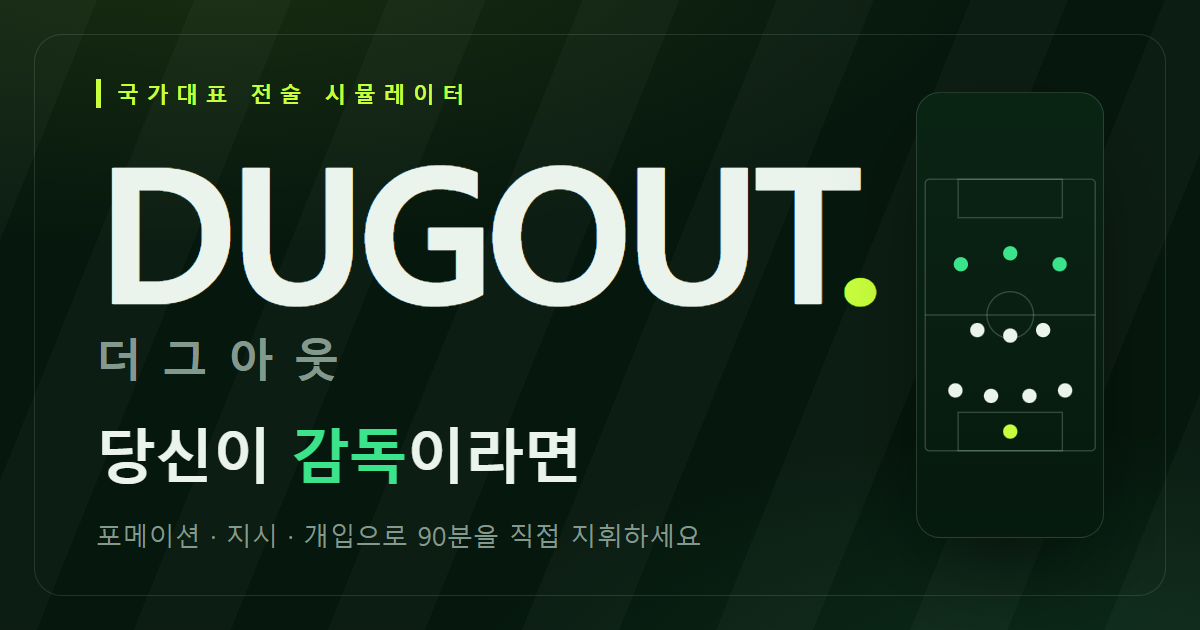
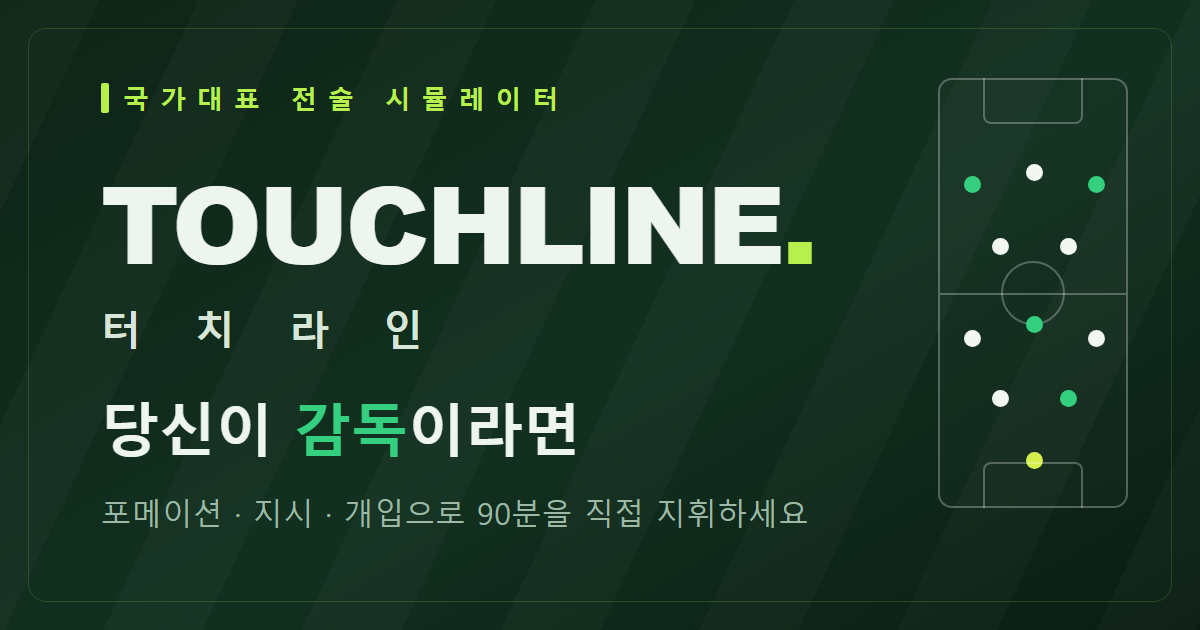
feat: rebrand DUGOUT to TOUCHLINE across app, docs, and assets
- Rename all UI strings, storage keys, CSS classes, package name
- New production domain touchline-fc.vercel.app, repo idfamilycck/touchline
- Regenerate OG image, proposal PDF, and result screenshot with new wordmark

diff --git a/app/globals.css b/app/globals.css
@@ -1,7 +1,7 @@
 @import "tailwindcss";
 
 /* ────────────────────────────────────────────────────────────
-   DUGOUT — 방송 중계 그래픽 + 감독의 작전실
+   TOUCHLINE — 방송 중계 그래픽 + 감독의 작전실
    다크 피치 그린 위에 형광 라임 액센트 하나만 절제해서 사용.
    유리 = 초록/↑ · 불리 = 빨강/↓ 컨벤션을 앱 전역에서 공유한다.
    ──────────────────────────────────────────────────────────── */
@@ -106,7 +106,7 @@ body {
 
 /* 조작→반응 1:1: 마지막 조작으로 바뀐 근거 카드가 딱 한 번 라임으로 번쩍인다.
    키를 remount해 재생하며, prefers-reduced-motion에서는 위 미디어쿼리가 무력화한다. */
-@keyframes dugout-pulse {
+@keyframes touchline-pulse {
   0% {
     box-shadow: 0 0 0 0 rgba(200, 255, 60, 0);
     background-color: rgba(200, 255, 60, 0.16);
@@ -119,22 +119,22 @@ body {
     background-color: transparent;
   }
 }
-.dugout-pulse {
-  animation: dugout-pulse 0.9s ease-out;
+.touchline-pulse {
+  animation: touchline-pulse 0.9s ease-out;
 }
 
 /* 추천 분석 스피너 */
-@keyframes dugout-spin {
+@keyframes touchline-spin {
   to {
     transform: rotate(360deg);
   }
 }
-.dugout-spin {
-  animation: dugout-spin 0.7s linear infinite;
+.touchline-spin {
+  animation: touchline-spin 0.7s linear infinite;
 }
 
 /* 전술 슬라이더: 라임 액센트 썸 + 표면색 트랙 */
-.dugout-range {
+.touchline-range {
   accent-color: var(--color-accent);
   height: 6px;
   cursor: pointer;

diff --git a/app/layout.tsx b/app/layout.tsx
@@ -6,11 +6,11 @@ const DESCRIPTION =
 
 export const metadata: Metadata = {
   // 상대 경로 OG 이미지(/og.png)를 절대 URL로 해석하기 위한 기준값.
-  metadataBase: new URL("https://dugout-one.vercel.app"),
-  title: "더그아웃 — 당신이 감독이라면",
+  metadataBase: new URL("https://touchline-fc.vercel.app"),
+  title: "터치라인 — 당신이 감독이라면",
   description: DESCRIPTION,
   openGraph: {
-    title: "더그아웃 — 당신이 감독이라면",
+    title: "터치라인 — 당신이 감독이라면",
     description: DESCRIPTION,
     images: ["/og.png"],
     locale: "ko_KR",
@@ -18,7 +18,7 @@ export const metadata: Metadata = {
   },
   twitter: {
     card: "summary_large_image",
-    title: "더그아웃 — 당신이 감독이라면",
+    title: "터치라인 — 당신이 감독이라면",
     description: DESCRIPTION,
     images: ["/og.png"],
   },

diff --git a/components/result/ShareCard.tsx b/components/result/ShareCard.tsx
@@ -89,7 +89,7 @@ export function ShareCard({ match, cf, shootout }: ShareCardProps) {
     ctx.textAlign = "center";
     ctx.fillStyle = "#c8ff3c";
     ctx.font = `800 30px ${font}`;
-    ctx.fillText("D U G O U T", W / 2, 108);
+    ctx.fillText("T O U C H L I N E", W / 2, 108);
     ctx.fillStyle = "#83998d";
     ctx.font = `600 18px ${font}`;
     ctx.fillText("당신이 감독이라면", W / 2, 140);
@@ -161,7 +161,7 @@ export function ShareCard({ match, cf, shootout }: ShareCardProps) {
     const canvas = canvasRef.current;
     if (!canvas) return;
     const link = document.createElement("a");
-    link.download = `dugout-${meCode}-${oppCode}.png`;
+    link.download = `touchline-${meCode}-${oppCode}.png`;
     link.href = canvas.toDataURL("image/png");
     link.click();
   };

diff --git a/components/tactics/Coachmarks.tsx b/components/tactics/Coachmarks.tsx
@@ -1,11 +1,11 @@
 "use client";
 
-// 첫 진입 온보딩 3단계. localStorage "dugout-onboarding"로 1회만 표시.
+// 첫 진입 온보딩 3단계. localStorage "touchline-onboarding"로 1회만 표시.
 // 건너뛰기/다음/시작 버튼. 딤 배경 + 스포트라이트 톤의 카드.
 
 import { useEffect, useState } from "react";
 
-const STORAGE_KEY = "dugout-onboarding";
+const STORAGE_KEY = "touchline-onboarding";
 
 const STEPS = [
   {

diff --git a/lib/store.test.ts b/lib/store.test.ts
@@ -111,9 +111,9 @@ describe("store", () => {
     expect(after.instructions.tempo).toBe(before.instructions.tempo);
   });
 
-  it("persist: 스토어 조작 후 sessionStorage 'dugout-v1'에 상태 존재", () => {
+  it("persist: 스토어 조작 후 sessionStorage 'touchline-v1'에 상태 존재", () => {
     useAppStore.getState().startQuick();
-    const raw = sessionStorageStub.getItem("dugout-v1");
+    const raw = sessionStorageStub.getItem("touchline-v1");
     expect(raw).not.toBeNull();
     const parsed = JSON.parse(raw!);
     expect(parsed.state.setup.myTeamId).toBe("kor");

diff --git a/app/tactics/page.tsx b/app/tactics/page.tsx
@@ -221,7 +221,7 @@ export default function TacticsPage() {
   if (!me) {
     return (
       <main className="flex flex-1 flex-col items-center justify-center px-5 py-24 text-center">
-        <p className="eyebrow text-accent">DUGOUT</p>
+        <p className="eyebrow text-accent">TOUCHLINE</p>
         <h1 className="display mt-4 text-4xl text-ink">먼저 매치업을 골라주세요</h1>
         <p className="mt-4 max-w-sm text-sm text-dim">
           작전실은 내 팀과 상대를 정한 뒤에 열립니다.

diff --git a/components/match/InterventionSheet.tsx b/components/match/InterventionSheet.tsx
@@ -336,7 +336,7 @@ export function InterventionSheet({
                     onChange={(e) =>
                       setInstr((s) => ({ ...s, [key]: Number(e.target.value) as 1 | 2 | 3 }))
                     }
-                    className="dugout-range w-full"
+                    className="touchline-range w-full"
                     aria-valuetext={ticks[value - 1]}
                   />
                 </div>

diff --git a/components/tactics/FactorCards.tsx b/components/tactics/FactorCards.tsx
@@ -84,7 +84,7 @@ export function FactorCards({ rules }: FactorCardsProps) {
             <li
               key={isPulsed ? `${r.id}-${nonce}` : r.id}
               className={`flex items-start gap-3 rounded-2xl border border-line bg-surface/50 p-3 ${
-                isPulsed ? "dugout-pulse" : ""
+                isPulsed ? "touchline-pulse" : ""
               }`}
             >
               <span className="mt-0.5 text-lg leading-none" aria-hidden>

diff --git a/components/tactics/InstructionsPanel.tsx b/components/tactics/InstructionsPanel.tsx
@@ -130,7 +130,7 @@ export function InstructionsPanel() {
                 step={1}
                 value={value}
                 onChange={(e) => setInstructions({ [key]: Number(e.target.value) as 1 | 2 | 3 })}
-                className="dugout-range w-full"
+                className="touchline-range w-full"
                 aria-valuetext={ticks[value - 1]}
               />
               <div className="mt-1 flex justify-between text-[10px] text-dim">

diff --git a/components/tactics/RecommendPanel.tsx b/components/tactics/RecommendPanel.tsx
@@ -63,7 +63,7 @@ export function RecommendPanel({ currentWin }: RecommendPanelProps) {
       >
         {loading ? (
           <>
-            <span className="dugout-spin h-4 w-4 rounded-full border-2 border-accent-ink/30 border-t-accent-ink" />
+            <span className="touchline-spin h-4 w-4 rounded-full border-2 border-accent-ink/30 border-t-accent-ink" />
             분석 중…
           </>
         ) : (

diff --git a/lib/store.ts b/lib/store.ts
@@ -248,7 +248,7 @@ export const useAppStore = create<AppState>()(
       },
     }),
     {
-      name: "dugout-v1",
+      name: "touchline-v1",
       storage: createJSONStorage(getSessionStorage),
     }
   )

diff --git a/README.md b/README.md
@@ -1,8 +1,8 @@
-# 더그아웃 (DUGOUT) — 당신이 감독이라면
+# 터치라인 (TOUCHLINE) — 당신이 감독이라면
 
 > 상대팀·경기장을 고르고 선수를 드래그로 배치하면, **통계 엔진이 조작할 때마다 실시간으로 승률을 갱신**하고 근거와 함께 최적 전술을 추천합니다. 그 전술로 90분을 직접 지휘해 시뮬레이션하고, **감독의 개입이 결과를 어떻게 바꿨는지 같은 시드로 재현해 수치로 복기**하는 월드컵 전술 시뮬레이터입니다.
 
-- **배포 URL**: https://dugout-one.vercel.app
+- **배포 URL**: https://touchline-fc.vercel.app
 - **대상**: 데이콘 월간 해커톤 "내가 축구 감독이라면 — 월드컵 전술 웹서비스 챌린지"
 - **특징**: 100% 클라이언트 통계 엔진 (외부 API·키·서버 **없음**), 시드 기반 재현 가능 시뮬레이션, 한국어 UI
 
@@ -69,7 +69,7 @@
 | 엔진 단위 테스트 + 밸런싱 검증 | vitest 93개(12파일) + 몬테카를로 밸런스 게이트 | `lib/engine/*.test.ts`, `lib/engine/balance.test.ts` |
 | 기획서 인터랙션 = 실제 화면 1:1, README 매핑표 | 4+1 화면(홈/작전실/경기/승부차기/복기) 라우트 구현 | `app/page.tsx`, `app/tactics`, `app/match`, `app/shootout`, `app/result` |
 
-> 스펙 원문: `docs/superpowers/specs/2026-07-17-dugout-tactics-simulator-design.md` (§2 우승 전략 매핑, §5 엔진 명세)
+> 스펙 원문: `docs/superpowers/specs/2026-07-17-touchline-tactics-simulator-design.md` (§2 우승 전략 매핑, §5 엔진 명세)
 
 ---
 